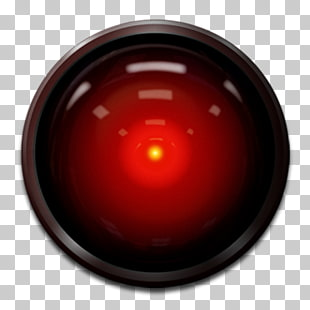
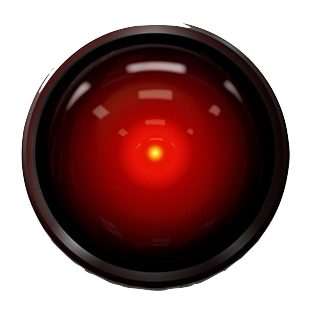
Backgroung pic and hover elements added & console log removed

Changed region(s): [[0.0, 0.0, 1.0, 1.0]]

diff --git a/src/components/PlayerHand.css b/src/components/PlayerHand.css
@@ -8,7 +8,6 @@
     display: inline-flex;
 }
 
-
 .select-hand{  
     display: inline-flex;
     /* text-align: center;
@@ -35,8 +34,11 @@
     min-width: 70px;
     min-height: 70px;
     background-color: rgba(255, 221, 74, 0.8);
-    border-radius: 100%;
-    
+    border-radius: 100%;   
+}
+
+.rock:hover {
+    box-shadow: 0 12px 16px 0 rgba(0, 0, 0, 0.47), 0 17px 50px 0 rgba(0,0,0,0.29);
 }
 
 .paper{
@@ -47,8 +49,11 @@
     min-width: 70px;
     min-height: 70px;
     background-color: rgba(255, 221, 74, 0.8);
-    border-radius: 100%;
-    
+    border-radius: 100%;   
+}
+
+.paper:hover {
+    box-shadow: 0 12px 16px 0 rgba(0, 0, 0, 0.47), 0 17px 50px 0 rgba(0,0,0,0.29);
 }
 
 .scissors{
@@ -60,16 +65,21 @@
     border-radius: 100%;
 }
 
+.scissors:hover {
+    box-shadow: 0 12px 16px 0 rgba(0, 0, 0, 0.47), 0 17px 50px 0 rgba(0,0,0,0.29);
+}
+
 .lizard{
     align-self: flex-end; 
     justify-content: space-around;
-    /* max-width: 60px;
-    max-height: 60px; */
     min-width: 70px;
     min-height: 70px;
     background-color: rgba(255, 221, 74, 0.8);
     border-radius: 100%;
+}
 
+.lizard:hover {
+    box-shadow: 0 12px 16px 0 rgba(0, 0, 0, 0.47), 0 17px 50px 0 rgba(0,0,0,0.29);
 }
 
 .spock{
@@ -79,6 +89,10 @@
     min-height: 70px;
     background-color: rgba(255, 221, 74, 0.8);
     border-radius: 100%;
+}
+
+.spock:hover {
+    box-shadow: 0 12px 16px 0 rgba(0, 0, 0, 0.47), 0 17px 50px 0 rgba(0,0,0,0.29);
 }
 
 .hand-img{

diff --git a/src/containers/Game.js b/src/containers/Game.js
@@ -61,18 +61,18 @@ class Game extends Component {
         var message = ""
         for (const key in pHand.message) {
             if (cHand.name === key) {
-                message = pHand.message[key] 
+                message = pHand.message[key].toUpperCase()  
                 winner = "player"  
             }
         }
 
         for (const key in cHand.message) {
             if (pHand.name === key) {
-                message = cHand.message[key]  
+                message = cHand.message[key].toUpperCase()  
                 winner = "comp" 
             }
         }
-        console.log(message);
+
         this.setState({winMessage: message})
 
         if (winner === "player") {
@@ -100,18 +100,15 @@ class Game extends Component {
     render(){
         return(
          <div className="game">
-            <div>
-                <p>Pic a Item</p>
-            </div>
+  
+                <p className="intro">TEST afajkshflkh lkfadskhf</p>                
 
-            
                 <PlayerHand
                 playerHand={this.state.playerHand} 
                 hands={this.state.hands} 
                 selectHand={this.selectHand}
                 compHand={this.state.compHand}
                 />
-        
             
                 <Results
                 winMessage={this.state.winMessage}

diff --git a/src/components/CompHand.css b/src/components/CompHand.css
@@ -2,7 +2,10 @@
 .comp-hand{
     max-width: 70px;
     height: 70px;
-    background-color: red;
+    /* background-color: red; */
+    background-image: url("../assets/hal.png");
+    background-position: center; 
+    background-size: 150px;
     border-radius: 100%;
     margin-left: auto;
     margin-right: auto;

diff --git a/src/containers/Game.css b/src/containers/Game.css
@@ -1,5 +1,5 @@
 .game{
-    
+    justify-content: center;
 }
 
 .scorecard{
@@ -37,4 +37,6 @@
     font-weight: 500;
 }
 
+.intro{
 
+}

diff --git a/src/components/Results.css b/src/components/Results.css
@@ -1,3 +1,6 @@
 .results-box{
     margin: 20px;
+    font-size: 30px;
+    font-weight: 700;
+    margin: 5px;
 }
